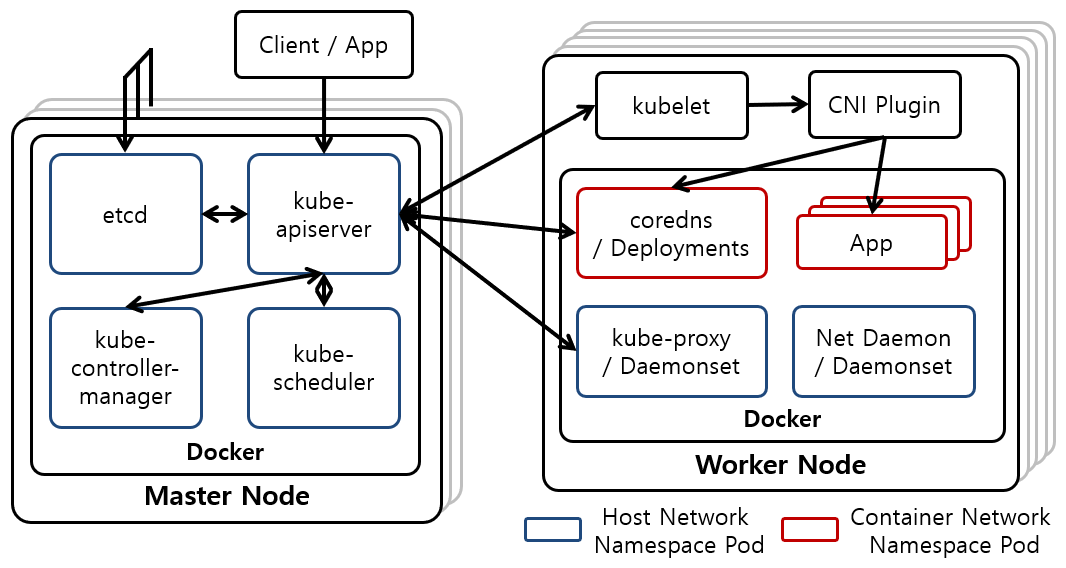
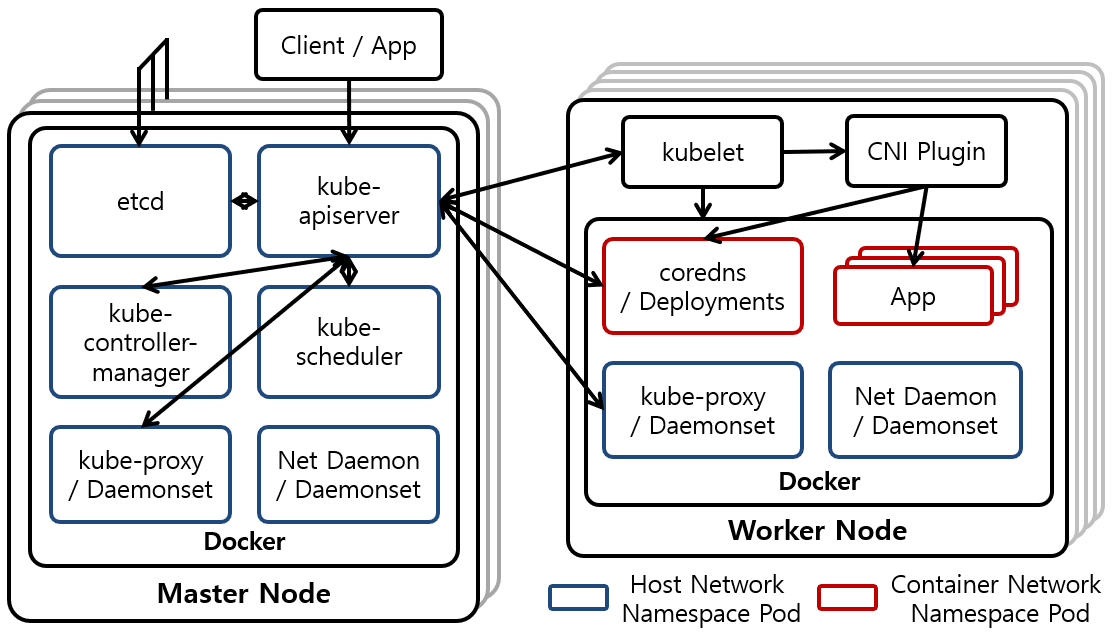
Update kubernetes architecture

Changed region(s): [[0.0, 0.0, 1.0, 0.9877]]

diff --git a/_docs/theory_analysis/Kubernetes_Architecture.md b/_docs/theory_analysis/Kubernetes_Architecture.md
@@ -29,17 +29,21 @@ Master Node는 Kubernetes Cluster를 관리하는 Node이다. HA (High Availabil
 
 #### 1.2. Worker Node
 
-Worker Node는 Kubernetes 사용자가 배포한 Application이 동작하는 Node이다. Worker Node에는 kubelet, kube-proxy, coredns, Network Daemon이 동작한다.
+Worker Node는 Kubernetes 사용자가 배포한 Application이 동작하는 Node이다. Worker Node에는 kubelet, coredns가 동작한다.
 
-* kubelet - 
+* kubelet - kube-apiserver로부터 명령을 받아 Docker를 통해서 Pod을 생성/삭제하거나 관리하는 역활을 수행한다. 또한 CNI Plugin을 통해서 생성한 Pod의 Network를 설정하는 역활도 수행한다.
 
-* kube-proxy
+* coredns - Pod의 IP는 언제나 바뀔수 있기 때문에 Pod과 통신하기 위해서는 Pod의 IP를 직접 이용하는것 보다는 DNS를 통해서 Pod의 IP를 얻는 방식을 이용하는 것이 좋다. coredns는 Pod안에서 다른 Pod의 IP를 찾을수 있는 DNS 역활을 수행한다. 이와 유사하게 Kubernetes의 Service IP도 언제든지 바뀔수 있기 때문에, coredns는 Pod안에서 Service IP를 찾을수 있는 DNS 역활도 수행한다.
 
-* coredns -
+* CNI Plugin - Pod의 Network를 설정할때 이용한다. CNI (Container Network Interface)를 준수하기 때문에 CNI Plugin이라고 불린다.
 
-* Network Daemon -
+#### 1.3. All Node
 
-* CNI Plugin -
+모든 Node에서 kube-proxy, Network Daemon이 동작한다.
+
+* kube-proxy - Kubernetes의 Service를 Kubernetes Cluster 내부나 외부에 노출시킬 수 있도록 Proxy Server 역활을 수행하거나, iptables를 제어하는 역활을 수행한다.
+
+* Network Daemon - Pod 사이에 통신이 가능하도록 Node (Host)의 Network를 설정한다. Network Daemon은 Host Network Namespace에서 동작하고 Network 설정을 변경할 수 있는 권한을 갖고 있기 때문에, Node의 Network 설정을 자유롭게 변경할 수 있다.
 
 ### 2. 참조
 
